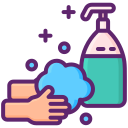
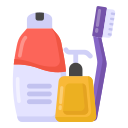
chore: icônes de production (petit-déjeuner, hygiène) en local, migration étendue

diff --git a/migrations/Version20261016090000.php b/migrations/Version20261016090000.php
@@ -32,6 +32,19 @@ final class Version20261016090000 extends AbstractMigration
         'hygiene' => 3212855,
     ];
 
+    /** Rayons présents seulement en production (absents des fixtures) : slug => identifiant Flaticon. */
+    private const PRODUCTION_ONLY_DEPARTMENTS = [
+        'petit-dejeuner' => 887396,
+    ];
+
+    /**
+     * Autre icône Flaticon qu'un rayon des fixtures porte en production : slug => identifiant.
+     * Les deux anciennes URLs mènent au même fichier local ; `down()` ne restaure que celle des fixtures.
+     */
+    private const DEPARTMENT_ALTERNATIVES = [
+        'hygiene' => 4990880,
+    ];
+
     /** Icônes d'ingrédient : slug de l'ingrédient => [identifiant Flaticon (CDN 64 px), fichier local]. */
     private const INGREDIENTS = [
         'avocat' => [135609, 'avocat'],
@@ -50,6 +63,10 @@ final class Version20261016090000 extends AbstractMigration
             $this->swap('department', $slug, $this->departmentCdnUrl($id), $this->departmentPath($slug));
         }
 
+        foreach ([...self::PRODUCTION_ONLY_DEPARTMENTS, ...self::DEPARTMENT_ALTERNATIVES] as $slug => $id) {
+            $this->swap('department', $slug, $this->departmentCdnUrl($id), $this->departmentPath($slug));
+        }
+
         foreach (self::INGREDIENTS as $slug => [$id, $file]) {
             $this->swap('ingredient', $slug, $this->ingredientCdnUrl($id), $this->ingredientPath($file));
         }
@@ -58,6 +75,10 @@ final class Version20261016090000 extends AbstractMigration
     public function down(Schema $schema): void
     {
         foreach (self::DEPARTMENTS as $slug => $id) {
+            $this->swap('department', $slug, $this->departmentPath($slug), $this->departmentCdnUrl($id));
+        }
+
+        foreach (self::PRODUCTION_ONLY_DEPARTMENTS as $slug => $id) {
             $this->swap('department', $slug, $this->departmentPath($slug), $this->departmentCdnUrl($id));
         }
 
